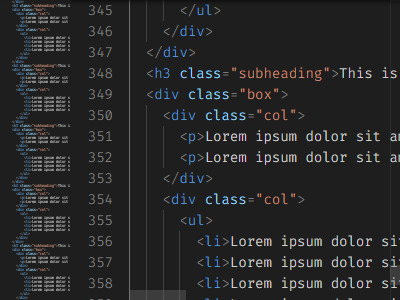
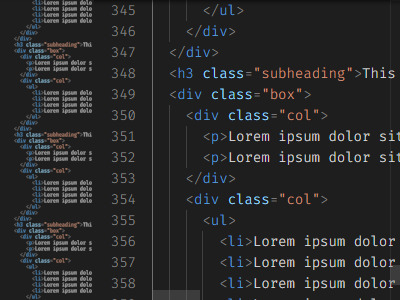
Enlarge the minimap in the minimap side images

diff --git a/.claude/skills/capture-help-images/SKILL.md b/.claude/skills/capture-help-images/SKILL.md
@@ -155,8 +155,8 @@ spec の主な項目（全項目は `lib/capture.mjs` の冒頭）:
 
 次の画像は、その画像が説明する設定のほかにも、初期値と異なる設定で撮っている。撮り直すときも同じ設定にする。
 
-- **`minimap/max-column.gif`、`minimap/show-slider_1.jpg`・`_2.gif`、`minimap/side_1.jpg`・`_2.jpg`:** `minimap.scale: 2`。初期値の1では、元画像よりミニマップの文字が小さく読めないため。
-- **`minimap/render-characters_1.jpg`・`_2.jpg`:** `minimap.scale: 3`。理由は同上。この2枚は文字の描き方の違いを見せるので、さらに大きくして元画像に近づけている。
+- **`minimap/max-column.gif`、`minimap/show-slider_1.jpg`・`_2.gif`:** `minimap.scale: 2`。初期値の1では、元画像よりミニマップの文字が小さく読めないため。
+- **`minimap/render-characters_1.jpg`・`_2.jpg`、`minimap/side_1.jpg`・`_2.jpg`:** `minimap.scale: 3`。理由は同上。これらはミニマップ自体を見せる画像なので、さらに大きくして元画像に近づけている。
 - **`scrollbar/arrow-size_1.jpg`・`_2.jpg`、`scrollbar/horizontal-has-arrows_1.jpg`・`_2.jpg`、`scrollbar/vertical-has-arrows_1.jpg`・`_2.jpg`、`scrollbar/horizontal_2.jpg`・`_3.jpg`、`scrollbar/vertical_2.jpg`・`_3.jpg`:** `scrollbar.verticalScrollbarSize: 20`、`scrollbar.horizontalScrollbarSize: 20`。元画像のスクロールバーは20pxで、初期値の10pxではスクロールバーや矢印のエリアが小さすぎるため。
 - **`scrollbar/vertical_1.gif`、`scrollbar/scroll-by-page.gif`、`overview-ruler-border_1.jpg`・`_2.jpg`:** `scrollbar.verticalScrollbarSize: 20`。理由は同上。
 - **`scrollbar/horizontal_1.gif`、`scroll-beyond-last-column_1.gif`・`_2.gif`:** `scrollbar.horizontalScrollbarSize: 20`。理由は同上。
